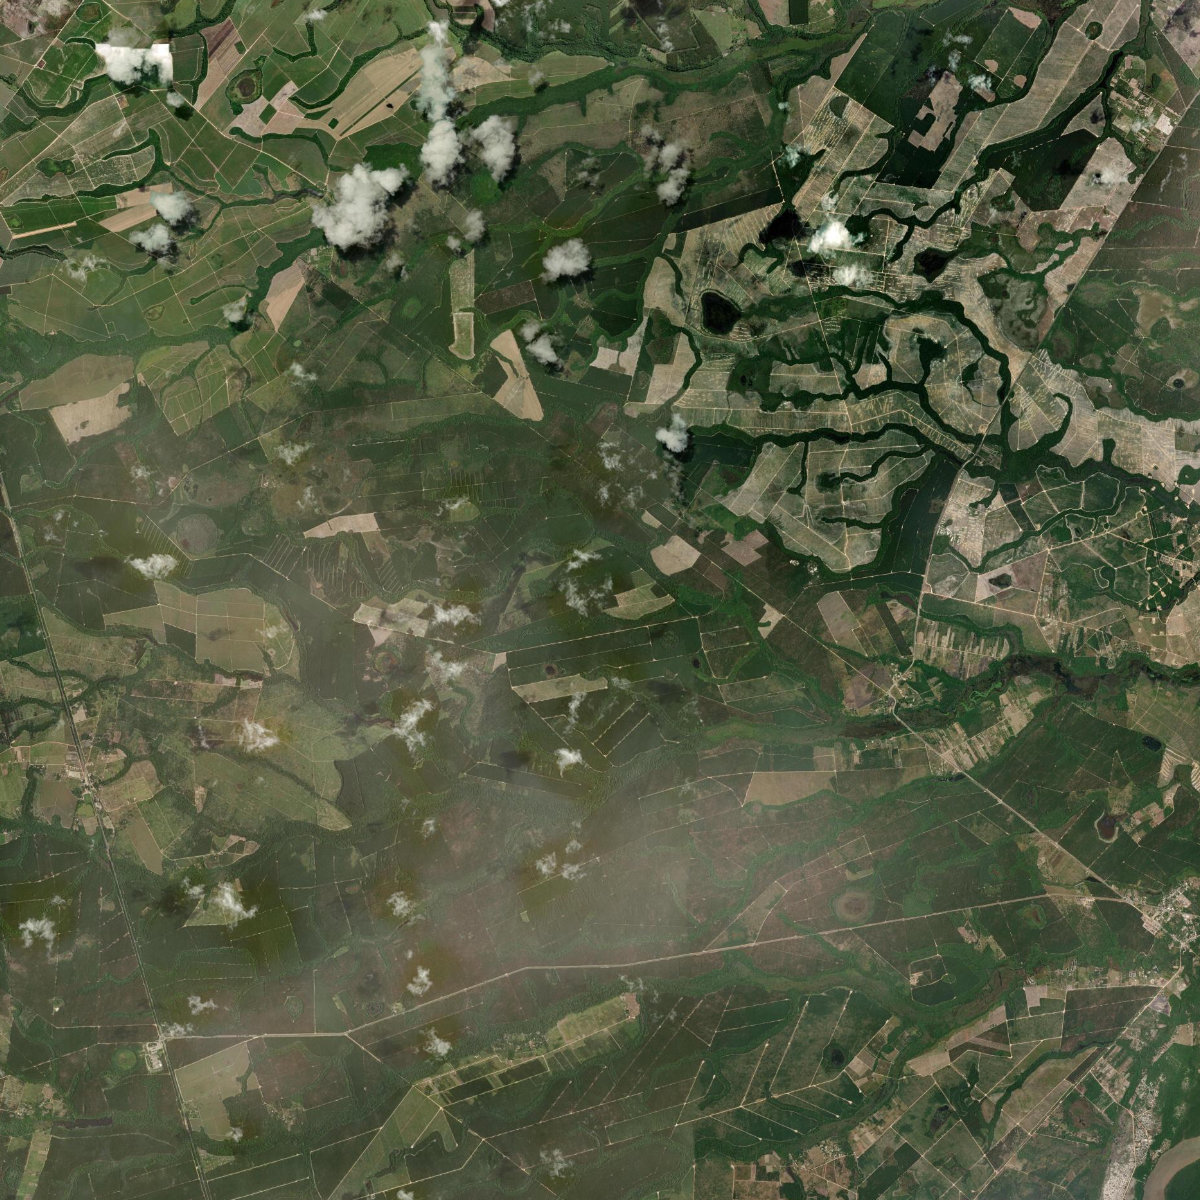
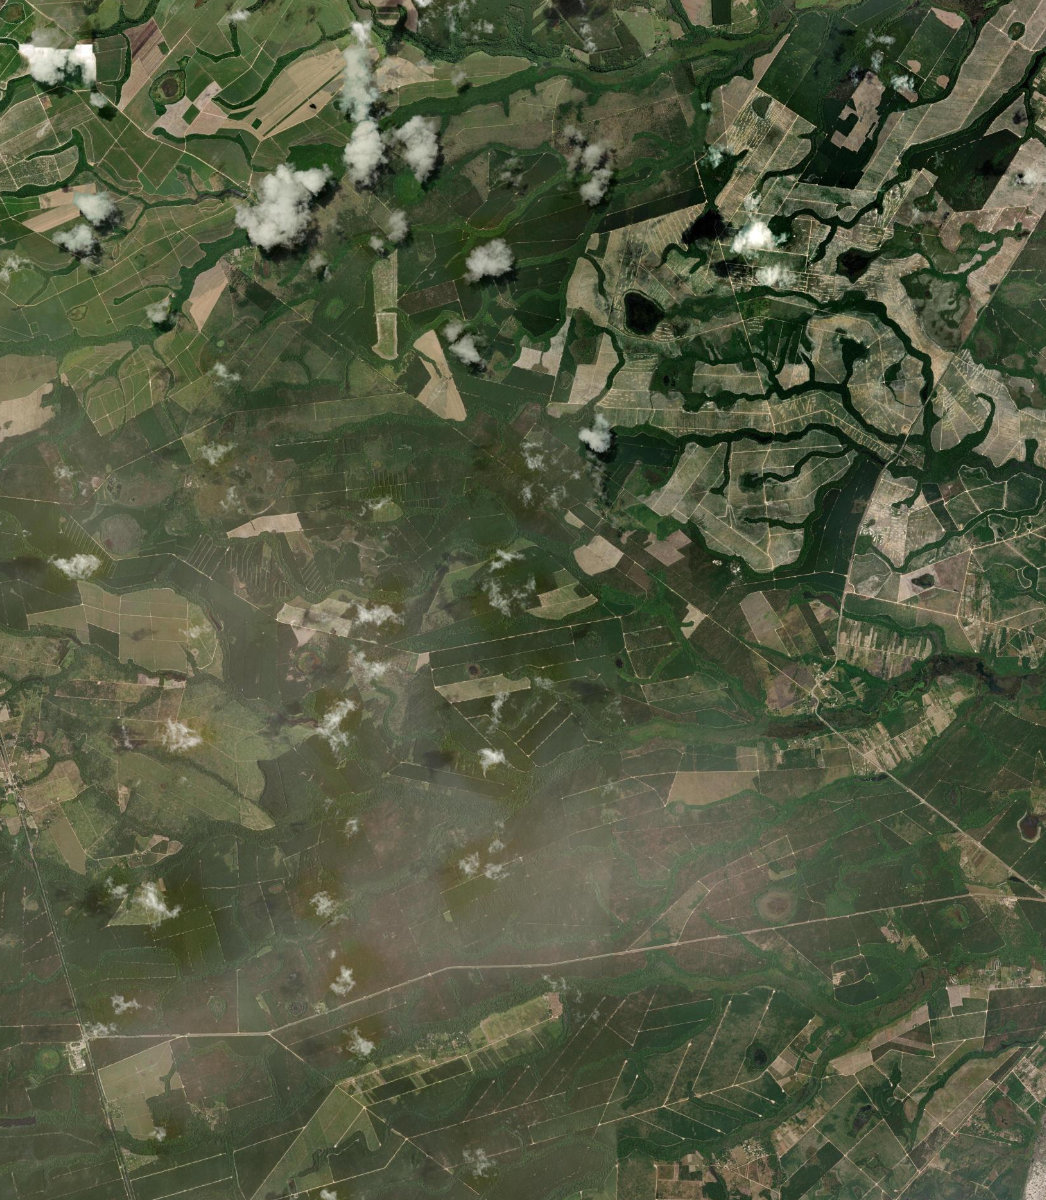
fix: adjust ArcGIS aspect ratio request to prevent geographic distortion

diff --git a/sw.js b/sw.js
@@ -1,4 +1,4 @@
-const CACHE_NAME = 'agrogis-v65';
+const CACHE_NAME = 'agrogis-v66';
 
 // Core assets to pre-cache when the Service Worker installs
 try {

diff --git a/generate_static_basemap.py b/generate_static_basemap.py
@@ -27,9 +27,9 @@ def meters_to_latlon(x, y):
     lat = 180 / math.pi * (2 * math.atan(math.exp(y_deg * math.pi / 180)) - math.pi / 2)
     return lat, lon
 
-def get_export_url(min_x, min_y, max_x, max_y):
+def get_export_url(min_x, min_y, max_x, max_y, width, height):
     # Send request completely in Web Mercator (3857) to avoid any reprojection bounding-box distortion by ArcGIS
-    return f"https://server.arcgisonline.com/ArcGIS/rest/services/World_Imagery/MapServer/export?bbox={min_x},{min_y},{max_x},{max_y}&bboxSR=3857&size={IMAGE_SIZE},{IMAGE_SIZE}&imageSR=3857&format=jpg&f=image"
+    return f"https://server.arcgisonline.com/ArcGIS/rest/services/World_Imagery/MapServer/export?bbox={min_x},{min_y},{max_x},{max_y}&bboxSR=3857&size={width},{height}&imageSR=3857&format=jpg&f=image"
 
 def process_coords(coords, bounds):
     if not coords: return
@@ -91,6 +91,16 @@ def main():
     x_step = (max_x - min_x) / GRID_COLS
     y_step = (max_y - min_y) / GRID_ROWS
     
+    # Calculate exact pixel dimensions for each cell to prevent ArcGIS from altering the bounding box to fix aspect ratio
+    if x_step > y_step:
+        img_w = IMAGE_SIZE
+        img_h = int(IMAGE_SIZE * (y_step / x_step))
+    else:
+        img_h = IMAGE_SIZE
+        img_w = int(IMAGE_SIZE * (x_step / y_step))
+    
+    print(f"Cell Size: {x_step}m x {y_step}m")
+    print(f"Image Resolution: {img_w}x{img_h} pixels")
     print(f"Baixando {GRID_COLS * GRID_ROWS} imagens em grid...")
     
     config_items = []
@@ -114,7 +124,7 @@ def main():
             filename = f"part_{col}_{row}.jpg"
             filepath = os.path.join(OUTPUT_DIR, filename)
             
-            url = get_export_url(cell_min_x, cell_min_y, cell_max_x, cell_max_y)
+            url = get_export_url(cell_min_x, cell_min_y, cell_max_x, cell_max_y, img_w, img_h)
             
             tasks.append((url, filepath))
             config_items.append({
